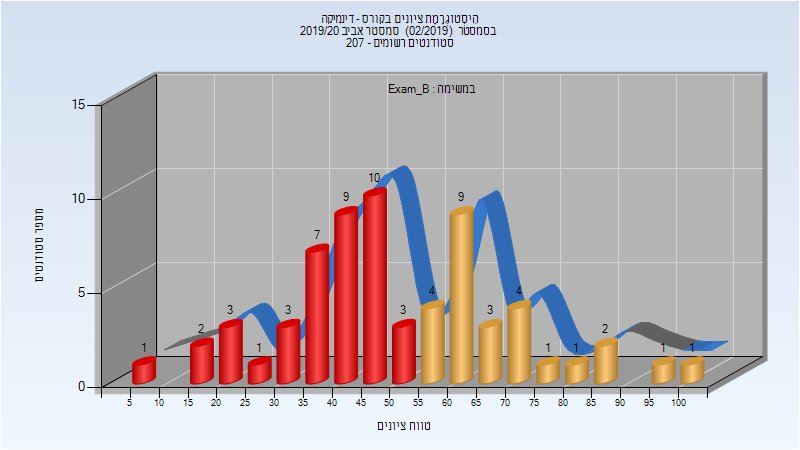
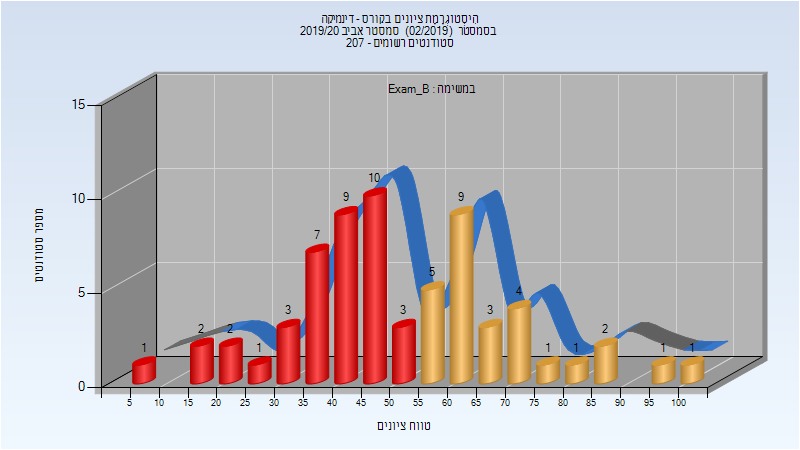
Deploy michael-maltsev/technion-histograms to github.com/michael-maltsev/technion-histograms.git:gh-pages

Changed region(s): [[0.25, 0.6533, 0.3438, 0.7778], [0.5, 0.5911, 0.5625, 0.6844], [0.5938, 0.4667, 0.625, 0.5911]]

diff --git a/034010/index.html b/034010/index.html
@@ -1238,11 +1238,11 @@
 <tbody>
 <tr>
 <td>65</td>
-<td>26/39</td>
-<td>40</td>
+<td>27/38</td>
+<td>42</td>
 <td>6</td>
 <td>100</td>
-<td>50.477</td>
+<td>51.015</td>
 <td>47</td>
 </tr>
 </tbody>

diff --git a/034010/README.md b/034010/README.md
@@ -385,7 +385,7 @@
 
 | סטודנטים | עברו/נכשלו | אחוז עוברים | ציון מינימלי | ציון מקסימלי | ממוצע | חציון |
 | ---- | ---- | ---- | ---- | ---- | ---- | ---- |
-| 65 | 26/39 | 40 | 6 | 100 | 50.477 | 47 |
+| 65 | 27/38 | 42 | 6 | 100 | 51.015 | 47 |
 
 ### סופי
 
